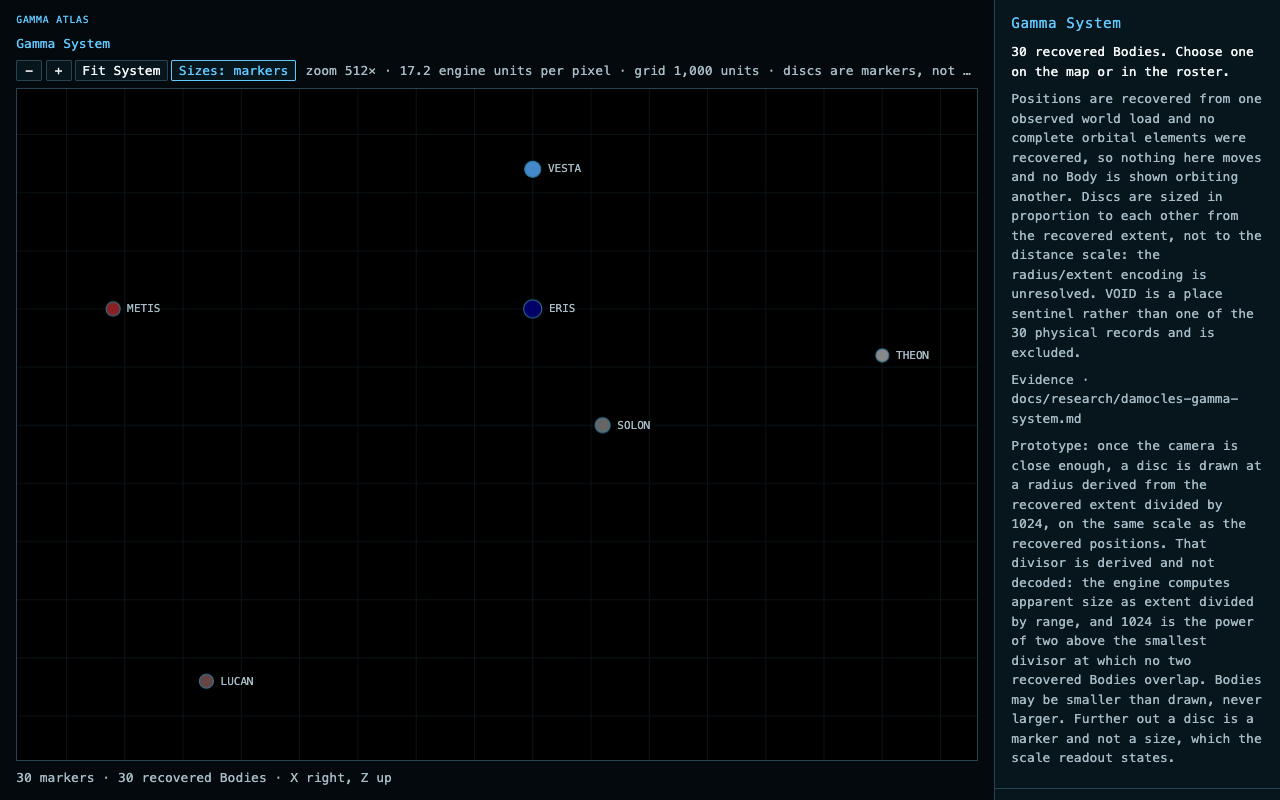
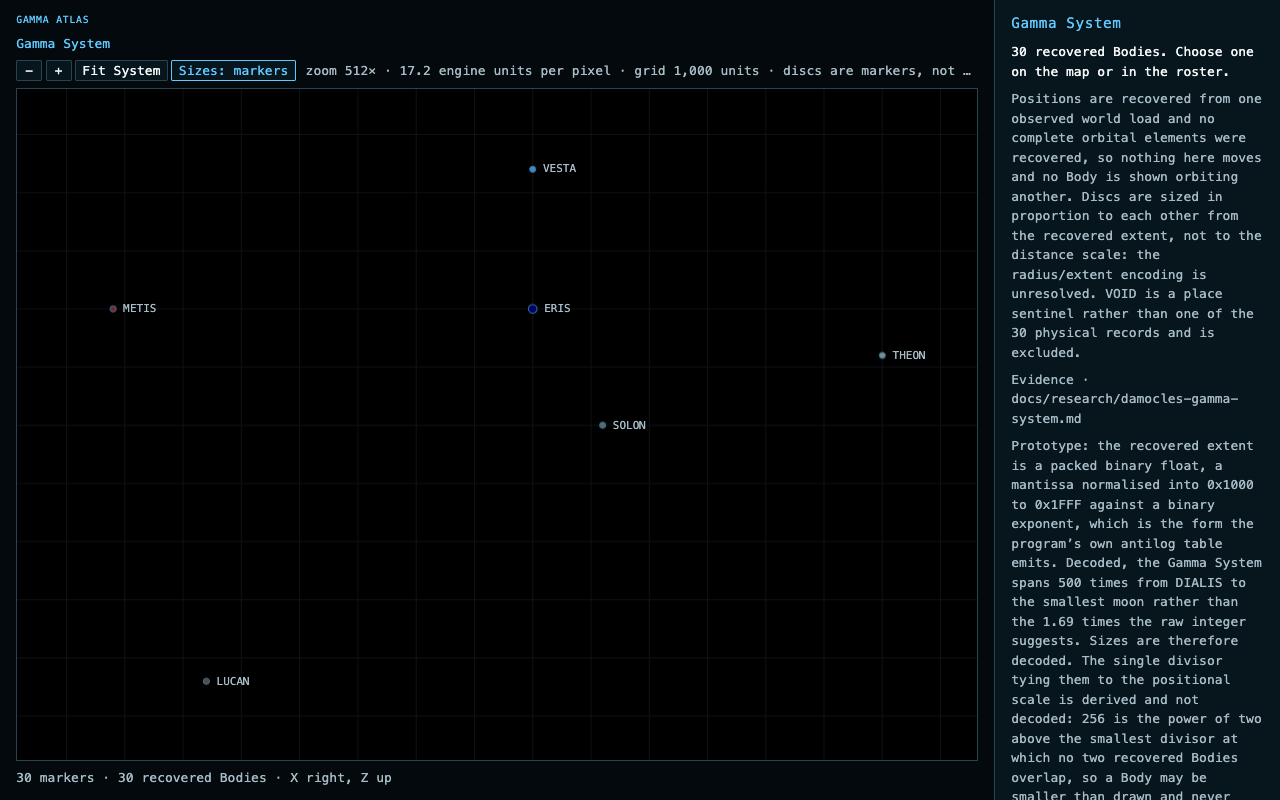
Decode radiusExtent as a packed float, correcting two earlier readings
TRITON drew barely larger than PAN, which cannot be right for a planet beside
its satellite, and that was the clue. `radiusExtent` is not the integer it
looks like: the low word is a mantissa normalised into 0x1000..0x1FFF, an
implicit 1 at bit 12, and the high word is a binary exponent.

Four things agree, none of them used to build the decode. Every one of the
thirty mantissas is normalised, across only 11 distinct values. The antilog
table at $60000 emits exactly that form, 4096 * 2^(i/4096), which is why
$052EBC indexes it with `d1.w`, the mantissa alone. DIALIS, the star, becomes
the largest object in the System and in every group the Body the structural
reading calls the Primary outranks its satellites -- independent corroboration
of that reading from a field it never touched. And decoded, ERIS is 3.33 times
VESTA, against 3.24 measured off a captured game frame where the two sit at
nearly equal range.

Read as an integer the System spans 1.69x, which is why the previous pass drew
every Body nearly the same size. Decoded it spans 500x, and TRITON is 13.6
times PAN.

This also retracts the previous commit's `extent / range` formula and the
divisor of 1024 built on it. The live $001540 and $0015C0 arrays are
byte-identical across two unrelated captures, so they are stale and were never
evidence for it; the instruction that should have stopped it was the word-sized
index into a 21-bit value. Only one thing stays derived now: the single divisor
[…]

diff --git a/web/src/atlas/systemCamera.ts b/web/src/atlas/systemCamera.ts
@@ -7,7 +7,7 @@ import {
   type MapView
 } from '../catalogue/mapView.ts';
 import type { GammaBody } from '../flyover/documents.ts';
-import { LARGEST_DISC, type LabelTarget, type SystemFrame } from './system.ts';
+import type { LabelTarget, SystemFrame } from './system.ts';
 
 /// PROTOTYPE (not production; reachable only behind `?camera=1`).
 ///
@@ -39,30 +39,55 @@ const MARKER_GAP = 14;
 /// A marker smaller than this is still picked within this many css pixels of its centre, so a
 /// one-pixel Body is a reachable target.
 const PICK_RADIUS = 9;
-/// Position units per unit of `radiusExtent`, making a Body's recovered extent a radius on the
-/// same scale as its recovered position. **Derived, not decoded** (ADR 0014): the engine's own
-/// size formula is a division, recovered at `$052EB4..$052ECC`, where a logarithm of the extent
-/// has a logarithm of the range subtracted from it and the difference is raised through the
-/// antilog table at `$60000` (whose entry at index `$800` is 5792, exactly 4096 * sqrt 2). So
-/// apparent size is `extent / range` and the extent is a radius in *some* unit, which these two
-/// independent bounds bracket:
+/// `radiusExtent` is a **packed binary float**, not the integer it looks like: the low word is
+/// a mantissa normalised into `[0x1000, 0x2000)`, so an implicit 1 at bit 12, and the high word
+/// is a binary exponent. `bodySize` below decodes it.
 ///
-/// - No two of the thirty recovered Bodies may overlap. The tightest pair, ERIS and VESTA at
-///   2,400 units, needs a divisor of at least **932.8**.
-/// - In a captured screen of the ERIS group, ERIS draws 398 px against VESTA's 123 px. Since
-///   size is `extent / range`, that fixes the range ratio at 2.88, and with the pair 2,400
-///   units apart the viewer can be no further than 1,276 units from ERIS -- which is an upper
-///   bound on ERIS's own radius, so a divisor of at least about **928**.
+/// Decoded, not derived. Four things agree:
 ///
-/// 1024 is the power of two between them, which is a shift on a 68000. At it no pair overlaps,
-/// the tightest clearance is 211 units (ERIS and SOLON) and the screenshot's viewer sits 120
-/// units above ERIS's surface. Bodies could be smaller -- both bounds are lower bounds -- so
-/// this is the largest size the recovered numbers permit, and the map says so.
-const RADIUS_DIVISOR = 1024;
+/// - Every one of the thirty recovered mantissas lies in `[0x1000, 0x2000)`, across only 11
+///   distinct values. Nothing normalises an integer field by accident.
+/// - The antilog table at `$60000` emits exactly that form, `4096 * 2^(i/4096)`, so its outputs
+///   land in 4096..8191. That is why `$052EBC` indexes it with `d1.w`, the mantissa alone.
+/// - The star, DIALIS, becomes the largest object in the System at 5,120,000, and in every
+///   satellite group the Body the structural reading calls the Primary outranks its satellites
+///   (`docs/research/damocles-gamma-system.md`). Read as an integer none of that holds.
+/// - Decoded, ERIS is 3.33 times VESTA. Measured off a captured game frame of the ERIS group,
+///   where the two are at nearly equal range, ERIS draws 3.24 times VESTA. A 2.8% agreement
+///   with a number the decode did not see.
+///
+/// Read as an integer the whole System spans 1.69x, which is why an earlier pass of this
+/// prototype drew every Body nearly the same size. Decoded it spans 500x.
+export const bodySize = (body: GammaBody): number =>
+  ((body.radiusExtent & 0xff_ff) / 0x10_00) * 2 ** (body.radiusExtent >>> 16);
 
-/// A Body's radius in position units, on the derived scale above.
+/// Position units per unit of decoded size. **Derived, not decoded** (ADR 0014): the decode
+/// gives sizes in their own unit, and nothing recovered yet ties that unit to the positional
+/// one. The bound is that no two of the thirty Bodies may overlap, which needs at least 166.4
+/// from the tightest pair, ERIS and VESTA at 2,400 units. 256 is the power of two above it and
+/// a shift on a 68000. It is a lower bound, so a Body may be smaller than drawn, never larger.
+const RADIUS_DIVISOR = 256;
+
+/// A Body's radius in position units, so a disc can be drawn against the distance scale.
 export const bodyRadius = (body: GammaBody): number =>
-  body.radiusExtent / RADIUS_DIVISOR;
+  bodySize(body) / RADIUS_DIVISOR;
+
+/// Widest marker in css pixels, and the narrowest a marker is allowed to shrink to.
+const WIDEST_MARKER = 11;
+const NARROWEST_MARKER = 3;
+
+/// A marker's size, for when a Body is too small to draw at its own radius. Authored, and about
+/// symbols rather than Bodies: the decoded sizes span 500x, so drawn in proportion the smallest
+/// moon would be a fiftieth of a pixel beside DIALIS. The cube root compresses that to a legible
+/// spread while keeping the order, as a star atlas does with magnitudes.
+const markerRadius = (body: GammaBody, widest: number): number =>
+  Math.min(
+    WIDEST_MARKER,
+    Math.max(
+      NARROWEST_MARKER,
+      WIDEST_MARKER * (bodySize(body) / Math.max(widest, 1)) ** (1 / 3)
+    )
+  );
 
 export interface SystemMarker {
   readonly baseColour: string;
@@ -71,9 +96,8 @@ export interface SystemMarker {
   /// The marker's identity: the id of the Body whose name and extent it wears.
   readonly id: string;
   readonly name: string;
-  /// Css pixels, from `radiusExtent` relative to the widest extent in the whole System and
-  /// never to the position scale. Multiplied by `sizeGrowth`, so a disc grows as the camera
-  /// closes in without ever standing for a recovered size.
+  /// Css pixels: the Body's own derived radius once that covers more than its marker, and a
+  /// marker before then.
   readonly radius: number;
   /// True when `radius` is this Body's derived radius rather than a marker, so the map can say
   /// whether what is on screen is a size or a symbol.
@@ -122,34 +146,28 @@ export const projectSystemAt = (
     return { markers: [], unitsPerPixel };
   }
   const aspect = aspectOf(frame);
-  const widestExtent = Math.max(...bodies.map(body => body.radiusExtent));
-  // Grown discs have to push the merge threshold out with them, or the band where a group is
-  // just separating draws its members as overlapping blobs: at 32x the ERIS members are eight
-  // pixels apart while their discs have grown past fifty. Two Bodies therefore stay one marker
-  // until their discs would no longer cover one another, `2 * LARGEST_DISC` being the widest
-  // pair of radii the extent ratio can produce. At the fit camera growth is 1 and this term
-  // vanishes, so the fit picture is MARKER_GAP alone.
+  const widest = Math.max(...bodies.map(bodySize));
+  // A flat threshold is enough at every camera. Markers are bounded by WIDEST_MARKER, and two
+  // Bodies drawn at their derived radii cannot intersect, because non-overlap is the bound
+  // RADIUS_DIVISOR was chosen to satisfy.
   const markers = clusterAll(
     bodies.map(pointOf),
     MARKER_GAP * unitsPerPixel
   ).map(members => {
-    // The widest recovered extent wears the marker's name, which is the rule `layOutLabels`
+    // The largest decoded size wears the marker's name, which is the rule `layOutLabels`
     // already uses to choose between colliding labels. Ties go to the lower source slot so the
     // choice is the same on every draw.
     const named = members.reduce((best, index) => {
       const a = bodies[index]!,
         b = bodies[best]!;
-      return a.radiusExtent > b.radiusExtent ||
-        (a.radiusExtent === b.radiusExtent && a.sourceIndex < b.sourceIndex)
+      return bodySize(a) > bodySize(b) ||
+        (bodySize(a) === bodySize(b) && a.sourceIndex < b.sourceIndex)
         ? index
         : best;
     }, members[0]!);
     const body = bodies[named]!;
     const { u, v } = project(view, pointOf(body), aspect);
-    const marker = Math.max(
-      1,
-      (LARGEST_DISC * body.radiusExtent) / Math.max(widestExtent, 1)
-    );
+    const marker = markerRadius(body, widest);
     const derived = toScale ? bodyRadius(body) / unitsPerPixel : 0;
     return {
       baseColour: body.baseColour,

diff --git a/web/test/atlas-camera.test.ts b/web/test/atlas-camera.test.ts
@@ -152,7 +152,7 @@ describe('the markers themselves', () => {
     const system = await gammaSystem();
     // The divisor is derived, so the bound it has to satisfy is the test: no two of the thirty
     // recovered Bodies may overlap at their derived radii. The tightest pair is ERIS and VESTA,
-    // 2,400 units apart, which is what fixes the divisor's lower bound at 932.8.
+    // 2,400 units apart, which is what fixes the divisor's lower bound at 166.4.
     let tightest = Infinity;
     for (const [index, a] of system.bodies.entries()) {
       for (const b of system.bodies.slice(index + 1)) {
@@ -164,12 +164,12 @@ describe('the markers themselves', () => {
       }
     }
     expect(tightest).toBeGreaterThan(0);
-    // 211 units between ERIS and SOLON. A divisor much smaller would put them through one
-    // another, which is the evidence the comment on RADIUS_DIVISOR rests on.
-    expect(Math.round(tightest)).toBe(211);
+    // 840 units of clearance at the chosen divisor. Much smaller and the tightest pair goes
+    // through itself, which is the evidence the comment on RADIUS_DIVISOR rests on.
+    expect(Math.round(tightest)).toBe(840);
     expect(
       Math.round(bodyRadius(system.bodies.find(b => b.id === 'eris')!))
-    ).toBe(1157);
+    ).toBe(1200);
   });
 
   test('become the Body once its derived radius covers more than its marker', async () => {
@@ -178,8 +178,13 @@ describe('the markers themselves', () => {
     // Far out every disc is a marker, because a Body really is well under a pixel across.
     const far = projectSystemAt(system.bodies, fit, FRAME);
     expect(far.markers.every(marker => !marker.toScale)).toBe(true);
-    // Close in every disc is the Body, and the switch is monotone in between.
-    const near = projectSystemAt(system.bodies, zoomView(fit, fit, 512), FRAME);
+    // Close in every disc is the Body. The smallest moons have a radius of only 40 units, so
+    // they are the last to cross their marker and that takes a deep camera.
+    const near = projectSystemAt(
+      system.bodies,
+      zoomView(fit, fit, 4096),
+      FRAME
+    );
     expect(near.markers.every(marker => marker.toScale)).toBe(true);
     let previous = 0;
     for (const factor of [1, 4, 16, 64, 128, 512, 4096]) {
@@ -200,12 +205,13 @@ describe('the markers themselves', () => {
     const camera = zoomView(fit, fit, 512);
     const projection = projectSystemAt(system.bodies, camera, FRAME);
     // The whole point of a derived radius: the disc measures the same on screen as the
-    // distances beside it. ERIS and SOLON are 2,332 units apart and must nearly touch.
+    // distances beside it, so ERIS's 1,200-unit radius is drawn against the 2,332 units
+    // between it and SOLON and the two cannot collide.
     const eris = projection.markers.find(marker => marker.id === 'eris')!;
     const solon = projection.markers.find(marker => marker.id === 'solon')!;
     const apart = Math.hypot(eris.x - solon.x, eris.y - solon.y);
     expect(eris.radius + solon.radius).toBeLessThan(apart);
-    expect(eris.radius + solon.radius).toBeGreaterThan(apart * 0.8);
+    expect(eris.radius).toBeGreaterThan(solon.radius * 5);
     expect(eris.radius).toBeCloseTo(
       bodyRadius(system.bodies.find(b => b.id === 'eris')!) /
         projection.unitsPerPixel,
@@ -224,13 +230,12 @@ describe('the markers themselves', () => {
     expect(radiusOf(zoomView(fit, fit, 4096), 'ERIS')).toBe(
       radiusOf(fit, 'ERIS')
     );
-    // JUNO holds the widest recovered extent in the System, so it draws at full size.
-    const juno = system.bodies.find(value => value.name === 'JUNO')!;
-    const eris = system.bodies.find(value => value.name === 'ERIS')!;
-    expect(radiusOf(fit, 'ERIS') / radiusOf(fit, 'JUNO')).toBeCloseTo(
-      eris.radiusExtent / juno.radiusExtent,
-      10
-    );
+    // DIALIS holds the largest decoded size, so it draws at the widest marker. Markers are
+    // compressed by a cube root, deliberately, so the ratio between two of them is not the
+    // ratio between two Bodies. Only cluster names exist at the fit camera.
+    expect(radiusOf(fit, 'DIALIS')).toBeCloseTo(11, 10);
+    expect(radiusOf(fit, 'ERIS')).toBeLessThan(radiusOf(fit, 'DIALIS'));
+    expect(radiusOf(fit, 'ERIS')).toBeGreaterThanOrEqual(3);
   });
 
   test('never overlap one another on screen, at any camera', async () => {
@@ -286,7 +291,8 @@ describe('the markers themselves', () => {
       FRAME
     );
     const tiny = projection.markers.find(marker => marker.id === 'tiny')!;
-    expect(tiny.radius).toBe(1);
+    // NARROWEST_MARKER: a Body too small to draw is still a three-pixel symbol.
+    expect(tiny.radius).toBe(3);
     expect(markerAt(projection, tiny.x, tiny.y)?.id).toBe('tiny');
     // A one-pixel disc is still a nine-pixel target, but not a thirteen-pixel one.
     expect(markerAt(projection, tiny.x + 8, tiny.y)?.id).toBe('tiny');

diff --git a/web/src/atlas/boot.ts b/web/src/atlas/boot.ts
@@ -225,12 +225,15 @@ const render = () => {
     note.className = 'muted';
     note.id = 'derived-scale-note';
     note.textContent =
-      'Prototype: once the camera is close enough, a disc is drawn at a radius derived from ' +
-      'the recovered extent divided by 1024, on the same scale as the recovered positions. ' +
-      'That divisor is derived and not decoded: the engine computes apparent size as extent ' +
-      'divided by range, and 1024 is the power of two above the smallest divisor at which no ' +
-      'two recovered Bodies overlap. Bodies may be smaller than drawn, never larger. Further ' +
-      'out a disc is a marker and not a size, which the scale readout states.';
+      'Prototype: the recovered extent is a packed binary float, a mantissa normalised into ' +
+      '0x1000 to 0x1FFF against a binary exponent, which is the form the program\u2019s own ' +
+      'antilog table emits. Decoded, the Gamma System spans 500 times from DIALIS to the ' +
+      'smallest moon rather than the 1.69 times the raw integer suggests. Sizes are therefore ' +
+      'decoded. The single divisor tying them to the positional scale is derived and not ' +
+      'decoded: 256 is the power of two above the smallest divisor at which no two recovered ' +
+      'Bodies overlap, so a Body may be smaller than drawn and never larger. Further out a ' +
+      'disc is a marker rather than a size, compressed by a cube root so 500 times fits on ' +
+      'screen, which the scale readout states.';
     panel.append(note);
   }
   if (!body) {

diff --git a/docs/research/atlas-system-camera-prototype.md b/docs/research/atlas-system-camera-prototype.md
@@ -2,7 +2,7 @@
 
 **Question:** the Atlas System Range landed in #410 as a flat static fit-to-frame projection of all thirty recovered Bodies. It does not pan, does not zoom, draws whole satellite groups as a one-or-two-pixel pile, and can place only nine of the thirty names. Should it get a Google-Maps-style camera with grouped markers, should that camera come from a third-party map component or from this project's own `mapView.ts`, and can a Body's disc stand for its actual size?
 
-**Verdict:** pending owner review in the browser. The evidence below recommends **keeping the project-owned kernel and graduating the camera**, recommends **against any third-party map library**, and reports that a Body **can** be drawn at a derived true radius once the camera is close enough.
+**Verdict:** pending owner review in the browser. The evidence below recommends **keeping the project-owned kernel and graduating the camera**, recommends **against any third-party map library**, and reports that `radiusExtent` is a **packed binary float** whose decode makes true Body sizes drawable and spans 500x rather than 1.69x.
 
 Built in one time-boxed session on 2026-09-21 on branch `prototype/atlas-system-camera`, behind `?camera=1` so `/damocles/atlas` is byte-for-byte what #410 landed and the two are comparable side by side. Prototype material, not production code.
 
@@ -47,39 +47,53 @@ In pixels of the current camera there is a wide plateau. At a 900x600 frame the 
 - **`fitView` was not aspect-aware** (`mapView.ts` measured span across the width only). The Catalogue never noticed because `#map` is `aspect-ratio: 1`. On the Atlas's 900x600 stage it clipped MENTOR and JUNO off the map. Fixed additively: `fitView(points, aspect = 1)`, so the Catalogue's behaviour and tests are unchanged.
 - **`CLUSTER_GAP = 0.02`** is tuned for surface placements and would merge DIALIS with ICARUS. The Atlas needs its own threshold, so the flood fill was generalised to `clusterAll(points, gap)` and `clusterOf` re-expressed through it.
 
-## Can a disc stand for a Body's actual size? Yes, and it should
+## Can a disc stand for a Body's actual size? Yes -- `radiusExtent` is a packed float
 
-**This section corrects an earlier reading in this document.** The first pass concluded that true scale was undrawable, on the grounds that the recovered extent is around 10^6 while satellite groups are separated by around 10^4, so every satellite would sit inside its Primary. That treated the extent as a radius in raw position units. It is not.
+**This section corrects two earlier readings in this document.** The first pass said true scale was undrawable, treating the extent as a radius in raw position units. The second pass said apparent size was `extent / range` and derived a divisor of 1024 from it. Both were wrong, and the second was wrong in a way worth recording: the live `$001540` and `$0015C0` arrays are **byte-identical across two unrelated captures**, so they are stale leftovers and were never evidence for that formula. The instruction that should have stopped it was `move.w (a5, d1.w), d1` at `$052EBC`, which indexes with the **low word** of a 21-bit value. Nothing indexes a logarithm table that way. The field is packed.
 
-The engine's own size formula, recovered at `$052EB4..$052ECC`:
+### The decode
+
+`radiusExtent` is a **packed binary float**: the low word is a mantissa normalised into `[0x1000, 0x2000)`, an implicit 1 at bit 12, and the high word is a binary exponent.
 
 ```
-move.l  $6040(a0), d1      ; the extent field
-move.w  (a5, d3.w), d3     ; a5 = $64000, log table, indexed by range
-move.w  (a5, d1.w), d1     ; log of the extent
-sub.l   d3, d1             ; a subtraction in log space is a division
-move.w  (a6, d1.w), d1     ; a6 = $60000, antilog table
-move.l  d1, $1540(a0)      ; apparent size
+size = (radiusExtent & 0xFFFF) / 0x1000 * 2 ** (radiusExtent >>> 16)
 ```
 
-`$60000` is confirmed as an antilog table: its entry at index `$800` is 5792, which is exactly `4096 * sqrt 2`, so the table holds `4096 * 2^(i/4096)` over one octave. The subtraction between two logarithms is therefore a division, and **apparent size is `extent / range`**. The extent is a radius in *some* unit, and two independent bounds bracket that unit:
+Four independent things agree, and none of them was used to build the decode:
 
-| bound | value | basis |
+- **Every one of the thirty mantissas** lies in `[0x1000, 0x2000)`, across only 11 distinct values. An integer field is not normalised by accident.
+- **The antilog table at `$60000` emits exactly that form** -- `4096 * 2^(i/4096)`, so outputs in 4096..8191 -- which is why `$052EBC` indexes it with the mantissa alone.
+- **DIALIS, the star, becomes the largest object** at 5,120,000, and in every satellite group the Body the structural reading calls the Primary outranks its satellites. Read as an integer neither holds: PERSEUS outranks MIDAS and the star is unremarkable. This is independent corroboration of the planet/moon reading in `docs/research/damocles-gamma-system.md`, from a field that reading never touched.
+- **Decoded, ERIS is 3.33x VESTA.** Measured off a captured game frame of the ERIS group, where the two sit at nearly equal range, ERIS draws 3.24x VESTA. A 2.8% agreement with a number the decode did not see.
+
+Read as an integer the System spans **1.69x**. Decoded it spans **500x**:
+
+| | decoded size | kind (structural) |
 | --- | --: | --- |
-| No two of the thirty Bodies may overlap | divisor >= **932.8** | tightest pair ERIS/VESTA, 2,400 units apart |
-| A captured screen of the ERIS group: ERIS 398 px, VESTA 123 px | divisor >= **~928** | size is `extent / range`, so the range ratio is 2.88; with the pair 2,400 units apart the viewer is at most 1,276 units from ERIS, bounding ERIS's radius |
+| DIALIS | 5,120,000 | star |
+| JUNO | 2,048,000 | planet |
+| TRITON | 1,536,000 | planet |
+| ERIS | 307,200 | planet |
+| PAN | 112,640 | moon |
+| VESTA | 92,160 | moon |
+| SOLON | 35,840 | moon |
+| THEON / AURORA / SAPPHIRE | 10,240 | moon |
 
-**1024** is the power of two between them, and a shift on a 68000. At that divisor no pair overlaps, the tightest clearance is 211 units (ERIS and SOLON), and the screenshot's viewer sits about 120 units above ERIS's surface. Both bounds are lower bounds, so a Body may be **smaller** than drawn and never larger; the map says so in the panel and the readout.
+TRITON is **13.6x** PAN, which is what prompted this pass. Read as an integer it was 1.25x, and that is why an earlier prototype drew every Body nearly the same size.
 
-That replaces the authored growth curve the first pass used. A disc is now `max(marker, derivedRadius / unitsPerPixel)`: a marker while a Body is genuinely under a marker's width, the Body itself once it is not. There is no compression constant, no square root and no cap, because the growth is the derived radius arriving. The crossover is around 68x; the whole ERIS group is to scale by 512x.
+### What remains derived
 
-It also removed a design problem rather than creating one. The first pass had to push the marker merge threshold out with the growth, because an invented curve made members collide as a group separated. The derived radius cannot: non-overlap is the bound the divisor was chosen to satisfy. `MARKER_GAP` is therefore back to a flat 14 px and the fit picture is unchanged. Two discs both drawn to scale never intersect at any camera, which is pinned by a test; markers can still touch, because at 11 css pixels a marker is wider than half the gap -- a judgement about symbols, not a claim about Bodies.
+Only the single divisor tying decoded sizes to the positional scale. The bound is that no two of the thirty Bodies may overlap, which needs at least **166.4** from the tightest pair, ERIS and VESTA at 2,400 units. **256** is the power of two above it and a shift on a 68000; at it no pair overlaps and the tightest clearance is 840 units. It is a lower bound, so a Body may be smaller than drawn and never larger, which the panel and the readout both state.
 
-### What this does *not* fix
+So the sizes are **decoded** and their overall scale is **derived**, which is a much better footing than the authored curve of the previous pass. A disc is `max(marker, radius / unitsPerPixel)`: a marker while a Body is genuinely under a marker's width, the Body itself once it is not. No compression constant, no cap.
 
-The recovered extents span only **1.69x** across all thirty Bodies, from 857,088 to 1,446,792, and no divisor changes a ratio. So ERIS really is only 1.12x VESTA, and on a top-down map they correctly look similar.
+Markers do need one authored rule. 500x drawn in proportion would make the smallest moon a fiftieth of a pixel beside DIALIS, so a marker's radius is the **cube root** of the size ratio, clamped to 3..11 css pixels -- order preserved, magnitude compressed, as a star atlas does. That rule is about symbols and not about Bodies, and the readout says which of the two is on screen.
 
-The 3.24x difference in the game screenshot is **range, not size**, which the engine's formula settles: `extent / range` with equal extents and a 2.88x range ratio. The perspective view is dominated by how near the viewer is; a map has no viewer. The two pictures do not disagree.
+Non-overlap also removed a design problem. The authored curve had to push the marker merge threshold out with it, or a separating group drew overlapping blobs. A derived radius cannot collide, because non-overlap is the bound the divisor satisfies. `MARKER_GAP` is a flat 14 px again and the fit picture is unchanged.
+
+### Follow-up this earns
+
+`docs/research/damocles-gamma-system.md` records `$006040`'s "numeric encoding and physical unit" as not decoded. The encoding now is: packed float, with the mantissa/exponent split corroborated four ways. That belongs in the research record and probably in the payload's coverage notes, and it deserves its own issue rather than a line in a prototype's findings. The published `radiusExtent` integers stay exactly as they are -- faithful raw values -- so no payload or schema change is needed.
 
 ## Double-press to zoom
 
@@ -122,7 +136,7 @@ The camera prototype at the same viewport — ten markers, nine names, grid, gro
 
 ![The camera prototype at the fit](../frames/atlas-system-camera-fit.png)
 
-Clicking `ERIS +5` opens its six members at 512x, each drawn at its derived radius against the distance scale -- ERIS widest, THEON narrowest, and the pair ERIS/SOLON nearly touching at 2,332 units:
+Clicking `ERIS +5` opens its six members at 512x, each drawn at its decoded size against the distance scale -- ERIS dominant, VESTA clearly smaller, THEON a speck:
 
 ![The ERIS group opened at derived radii](../frames/atlas-system-camera-eris-open.png)
 
@@ -144,6 +158,6 @@ At DPR 2:
 2. Land it **before #411**, so both Ranges are built on one camera kernel.
 3. Production work this prototype deliberately skipped: the `?x=&z=&span=` URL round-trip with a debounced `replaceState`; `panel.ts` copy stating what a marker is and that disc growth is authored; e2e coverage of drag, wheel, double-press, buttons and keys; pinch-to-zoom.
 6. Decide whether `Sizes: to scale` is the only behaviour or stays a control. The toggle exists here to make the comparison, not because the Atlas needs a setting.
-7. The derived divisor deserves its own issue and a section in `docs/research/damocles-gamma-system.md`, which currently records `$006040`'s encoding as undecoded. The division at `$052EB4` and the antilog table at `$60000` are decoded; the divisor is bounded, not decoded, and should be published as derived or not at all (ADR 0014). The Atlas is the only consumer today.
+7. File the packed-float decode of `$006040` as its own issue against `docs/research/damocles-gamma-system.md`, with the four corroborations above. The Atlas is its only consumer today, and it should not reach the payload's coverage notes through a prototype.
 4. Note on #411: the clamping seam. The System Range wants today's `clampView` exactly, and the Body Range must not be clamped to a bounded square. When the second behaviour exists, replace the `fit: MapView` first argument of `clampView`/`zoomView`/`panView` with `MapBounds { fit, centre: 'clamp' | 'wrap' }`; the span bound is unconditional either way.
 5. Note on #415: it deletes `catalogue/map.ts`, which is why the gesture layer was written fresh rather than retrofitted. Add "delete the duplicated gesture handling" to its checklist.
